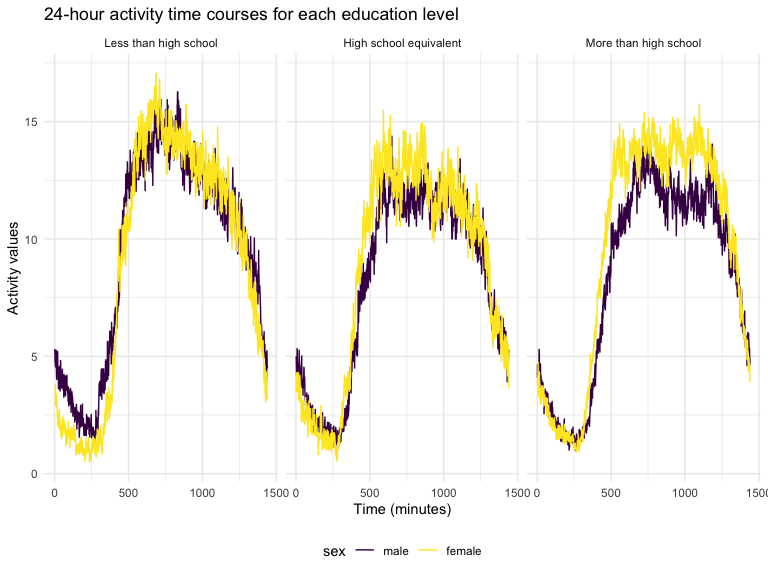
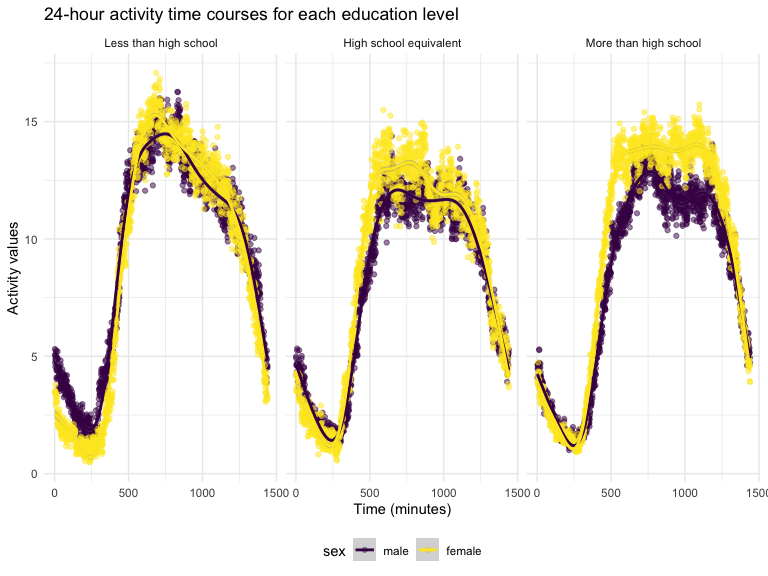
Final Final Version, fix a typo.

Changed region(s): [[0.0625, 0.125, 1.0, 0.8125], [0.5312, 0.9375, 0.5938, 1.0], [0.4375, 0.9375, 0.5, 1.0]]

diff --git a/p8105_hw3_jw4489.md b/p8105_hw3_jw4489.md
@@ -431,7 +431,8 @@ activity_plot = nhanes |>
   mutate(time = substring(time, 9),
          time = as.numeric(time)) |>
   ggplot(aes(x = time, y = mean, color = sex)) +
-  geom_line() +
+  geom_point(alpha = 0.5) +
+  geom_smooth() +
   facet_grid(. ~education) +
   labs(title = "24-hour activity time courses for each education level", 
        x = "Time (minutes)",
@@ -439,6 +440,8 @@ activity_plot = nhanes |>
 
 activity_plot
 ```
+
+    ## `geom_smooth()` using method = 'gam' and formula = 'y ~ s(x, bs = "cs")'
 
 <img src="p8105_hw3_jw4489_files/figure-gfm/unnamed-chunk-16-1.png" width="90%" />
 
